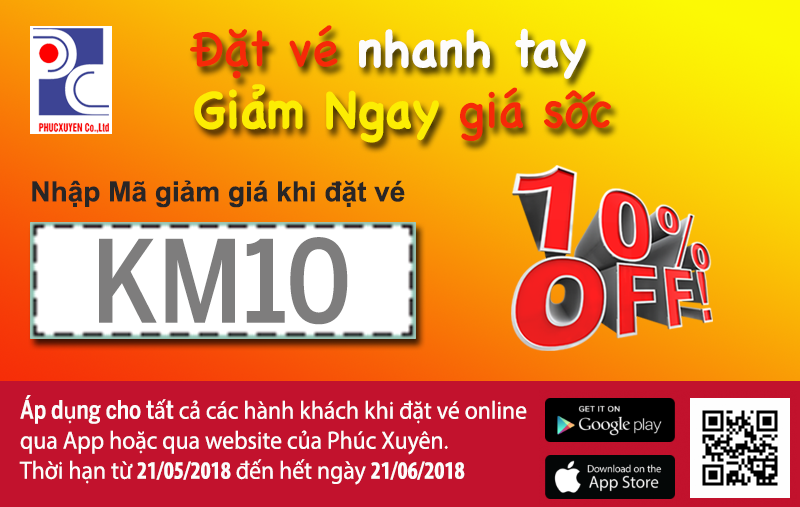
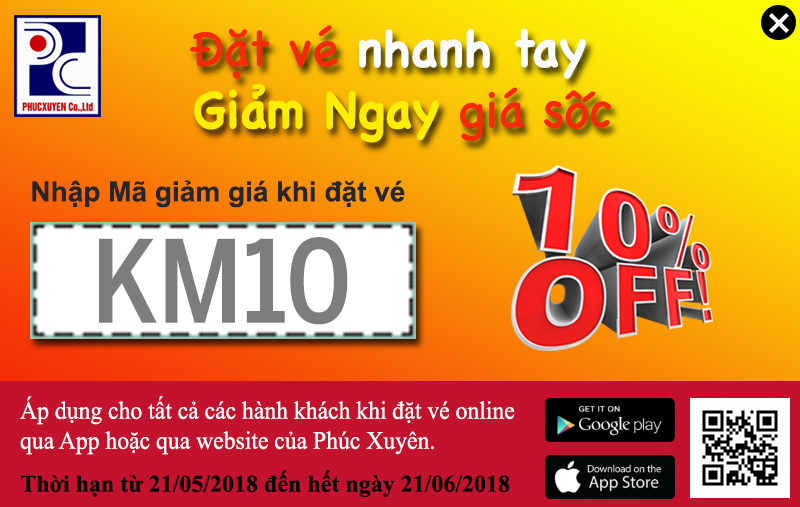
doi ads phuc xuyen

Changed region(s): [[0.0312, 0.7692, 0.6562, 0.9763], [0.0, 0.0296, 0.1562, 0.2663], [0.9375, 0.0, 1.0, 0.0888]]

diff --git a/themes/4/home/index.htm b/themes/4/home/index.htm
@@ -39,7 +39,7 @@
     <div class="modal-dialog modal-lg" role="document">
         <div class="modal-content">
             <div class="modal-body">
-                <img src="{$web['static_temp']}{$web['temp']}/statics/images/ads.png" style="width: 100%" class="img-responsive" alt="">
+                <img src="{$web['static_temp']}{$web['temp']}/statics/images/ads.png" style="width: 100%" class="img-responsive img-ads" alt="">
             </div>
         </div>
     </div>
@@ -54,6 +54,10 @@
     $(document).ready(function () {
 
         $('#adsModal').modal('show');
+
+        $('.img-ads').click(function () {
+            $('#adsModal').modal('hide');
+        });
 
         $('.select2').select2({
             dropdownParent: $('#choosePoint'),
